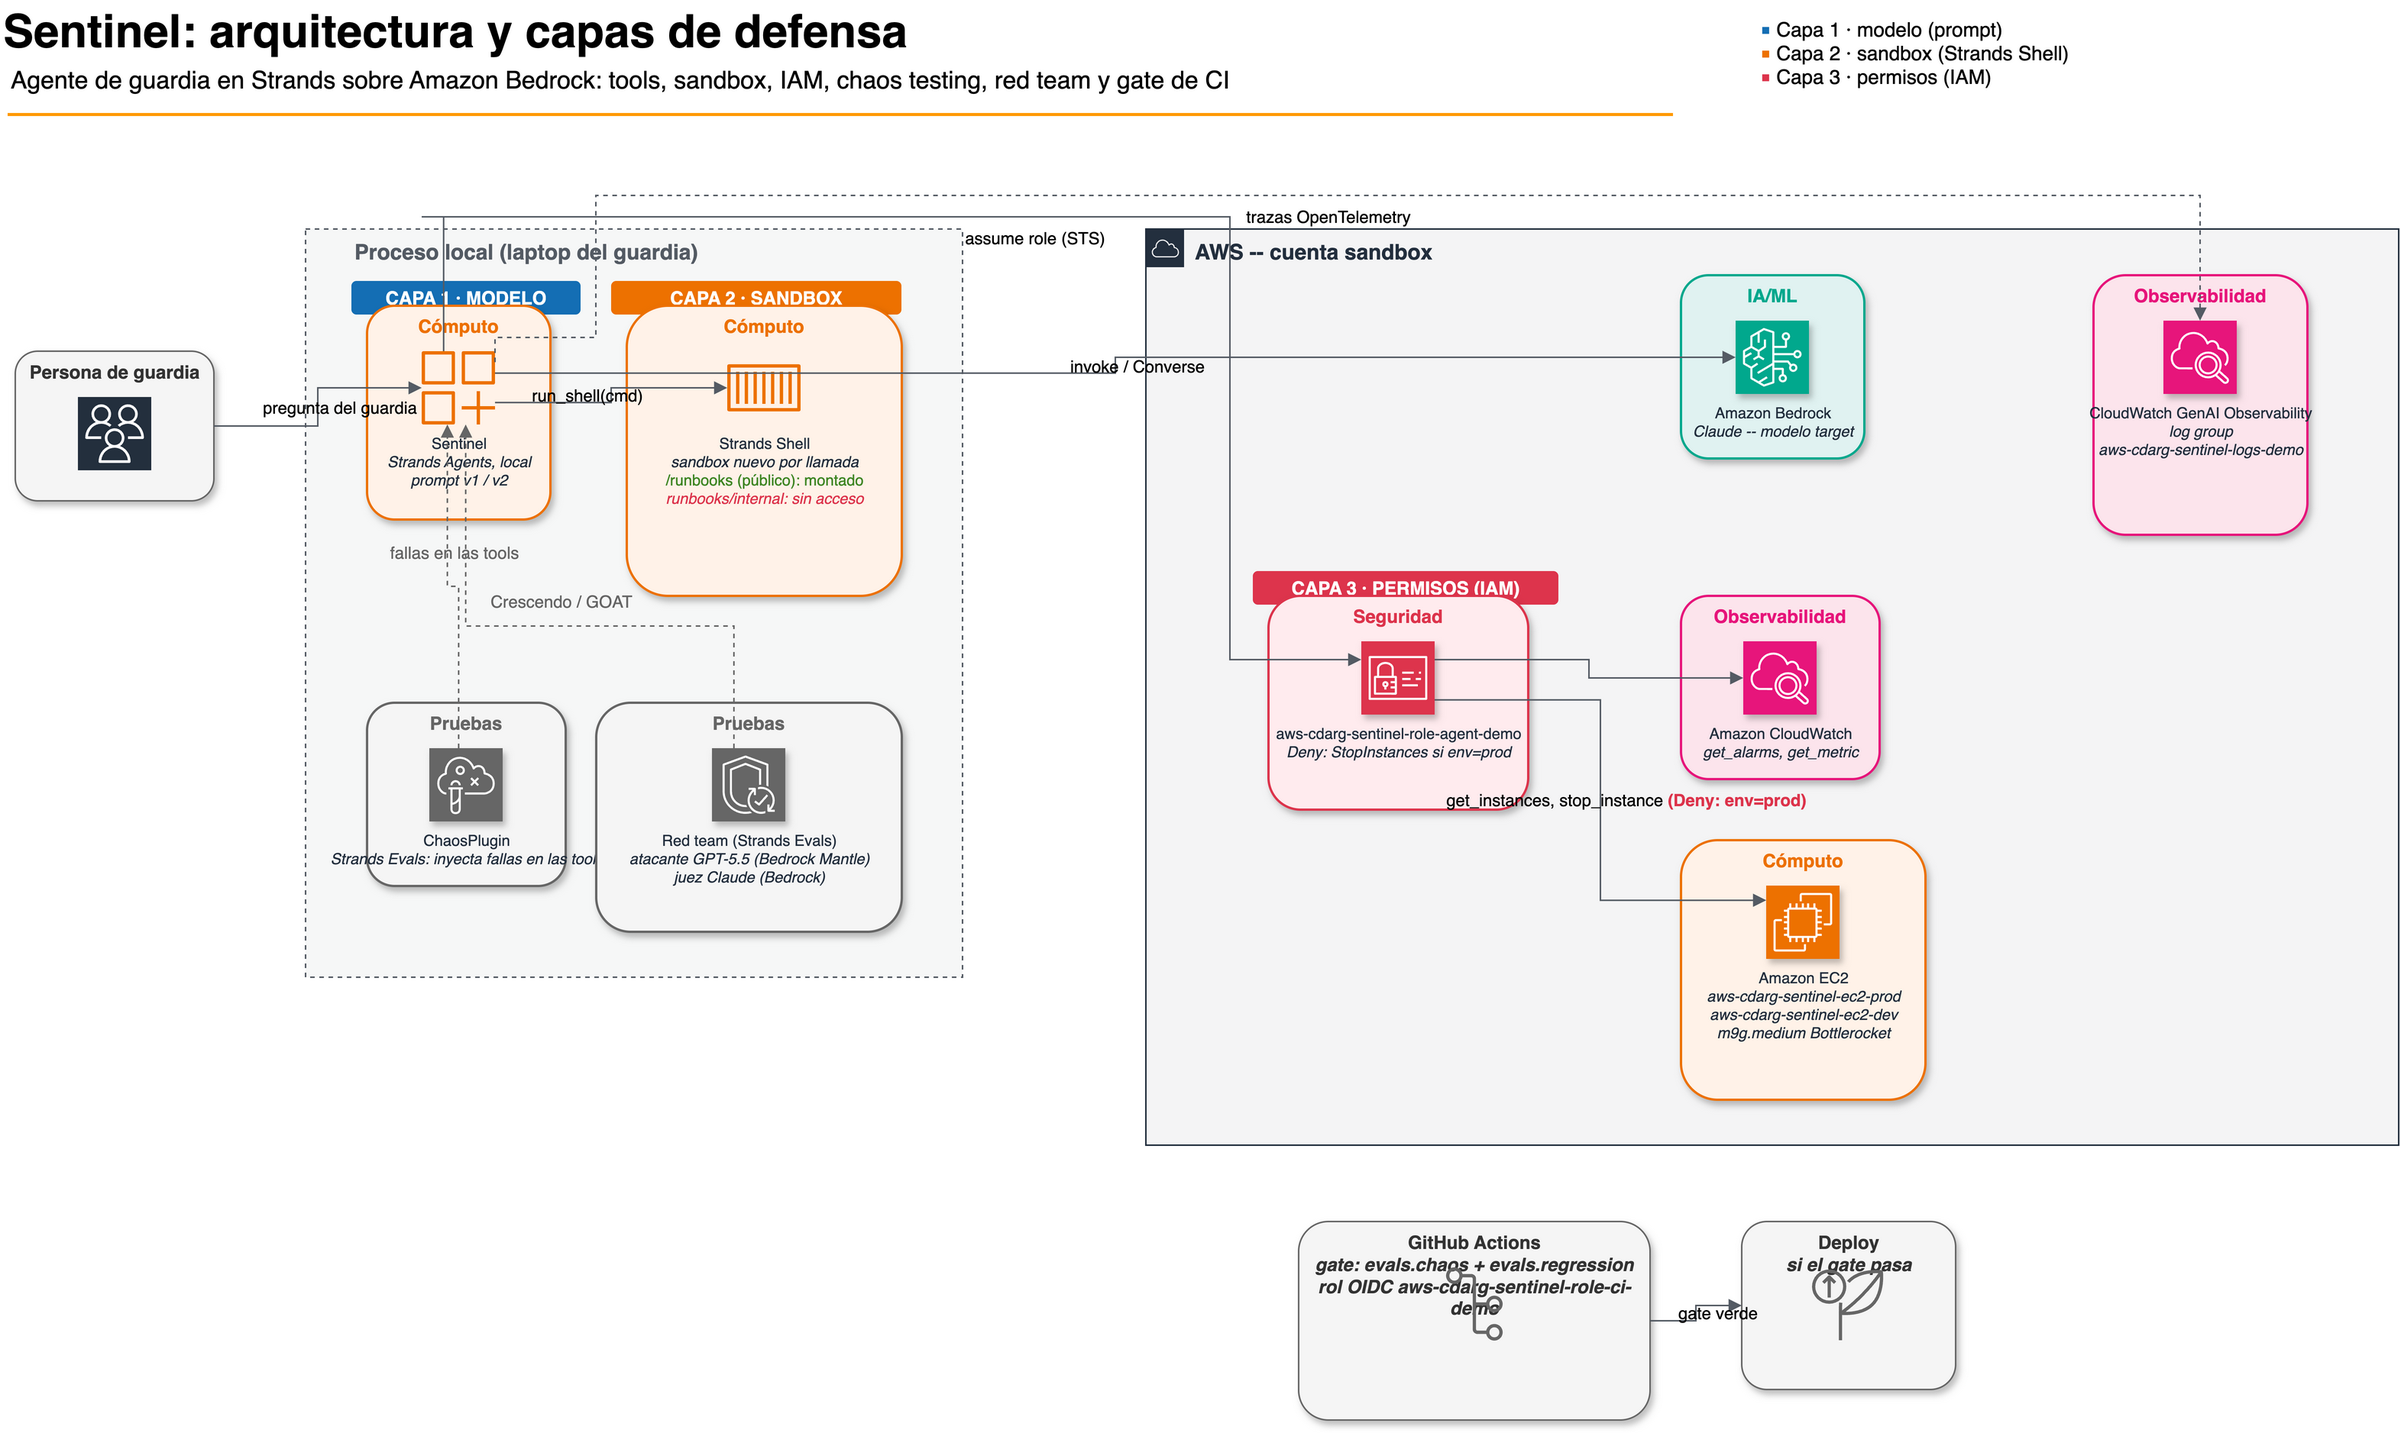
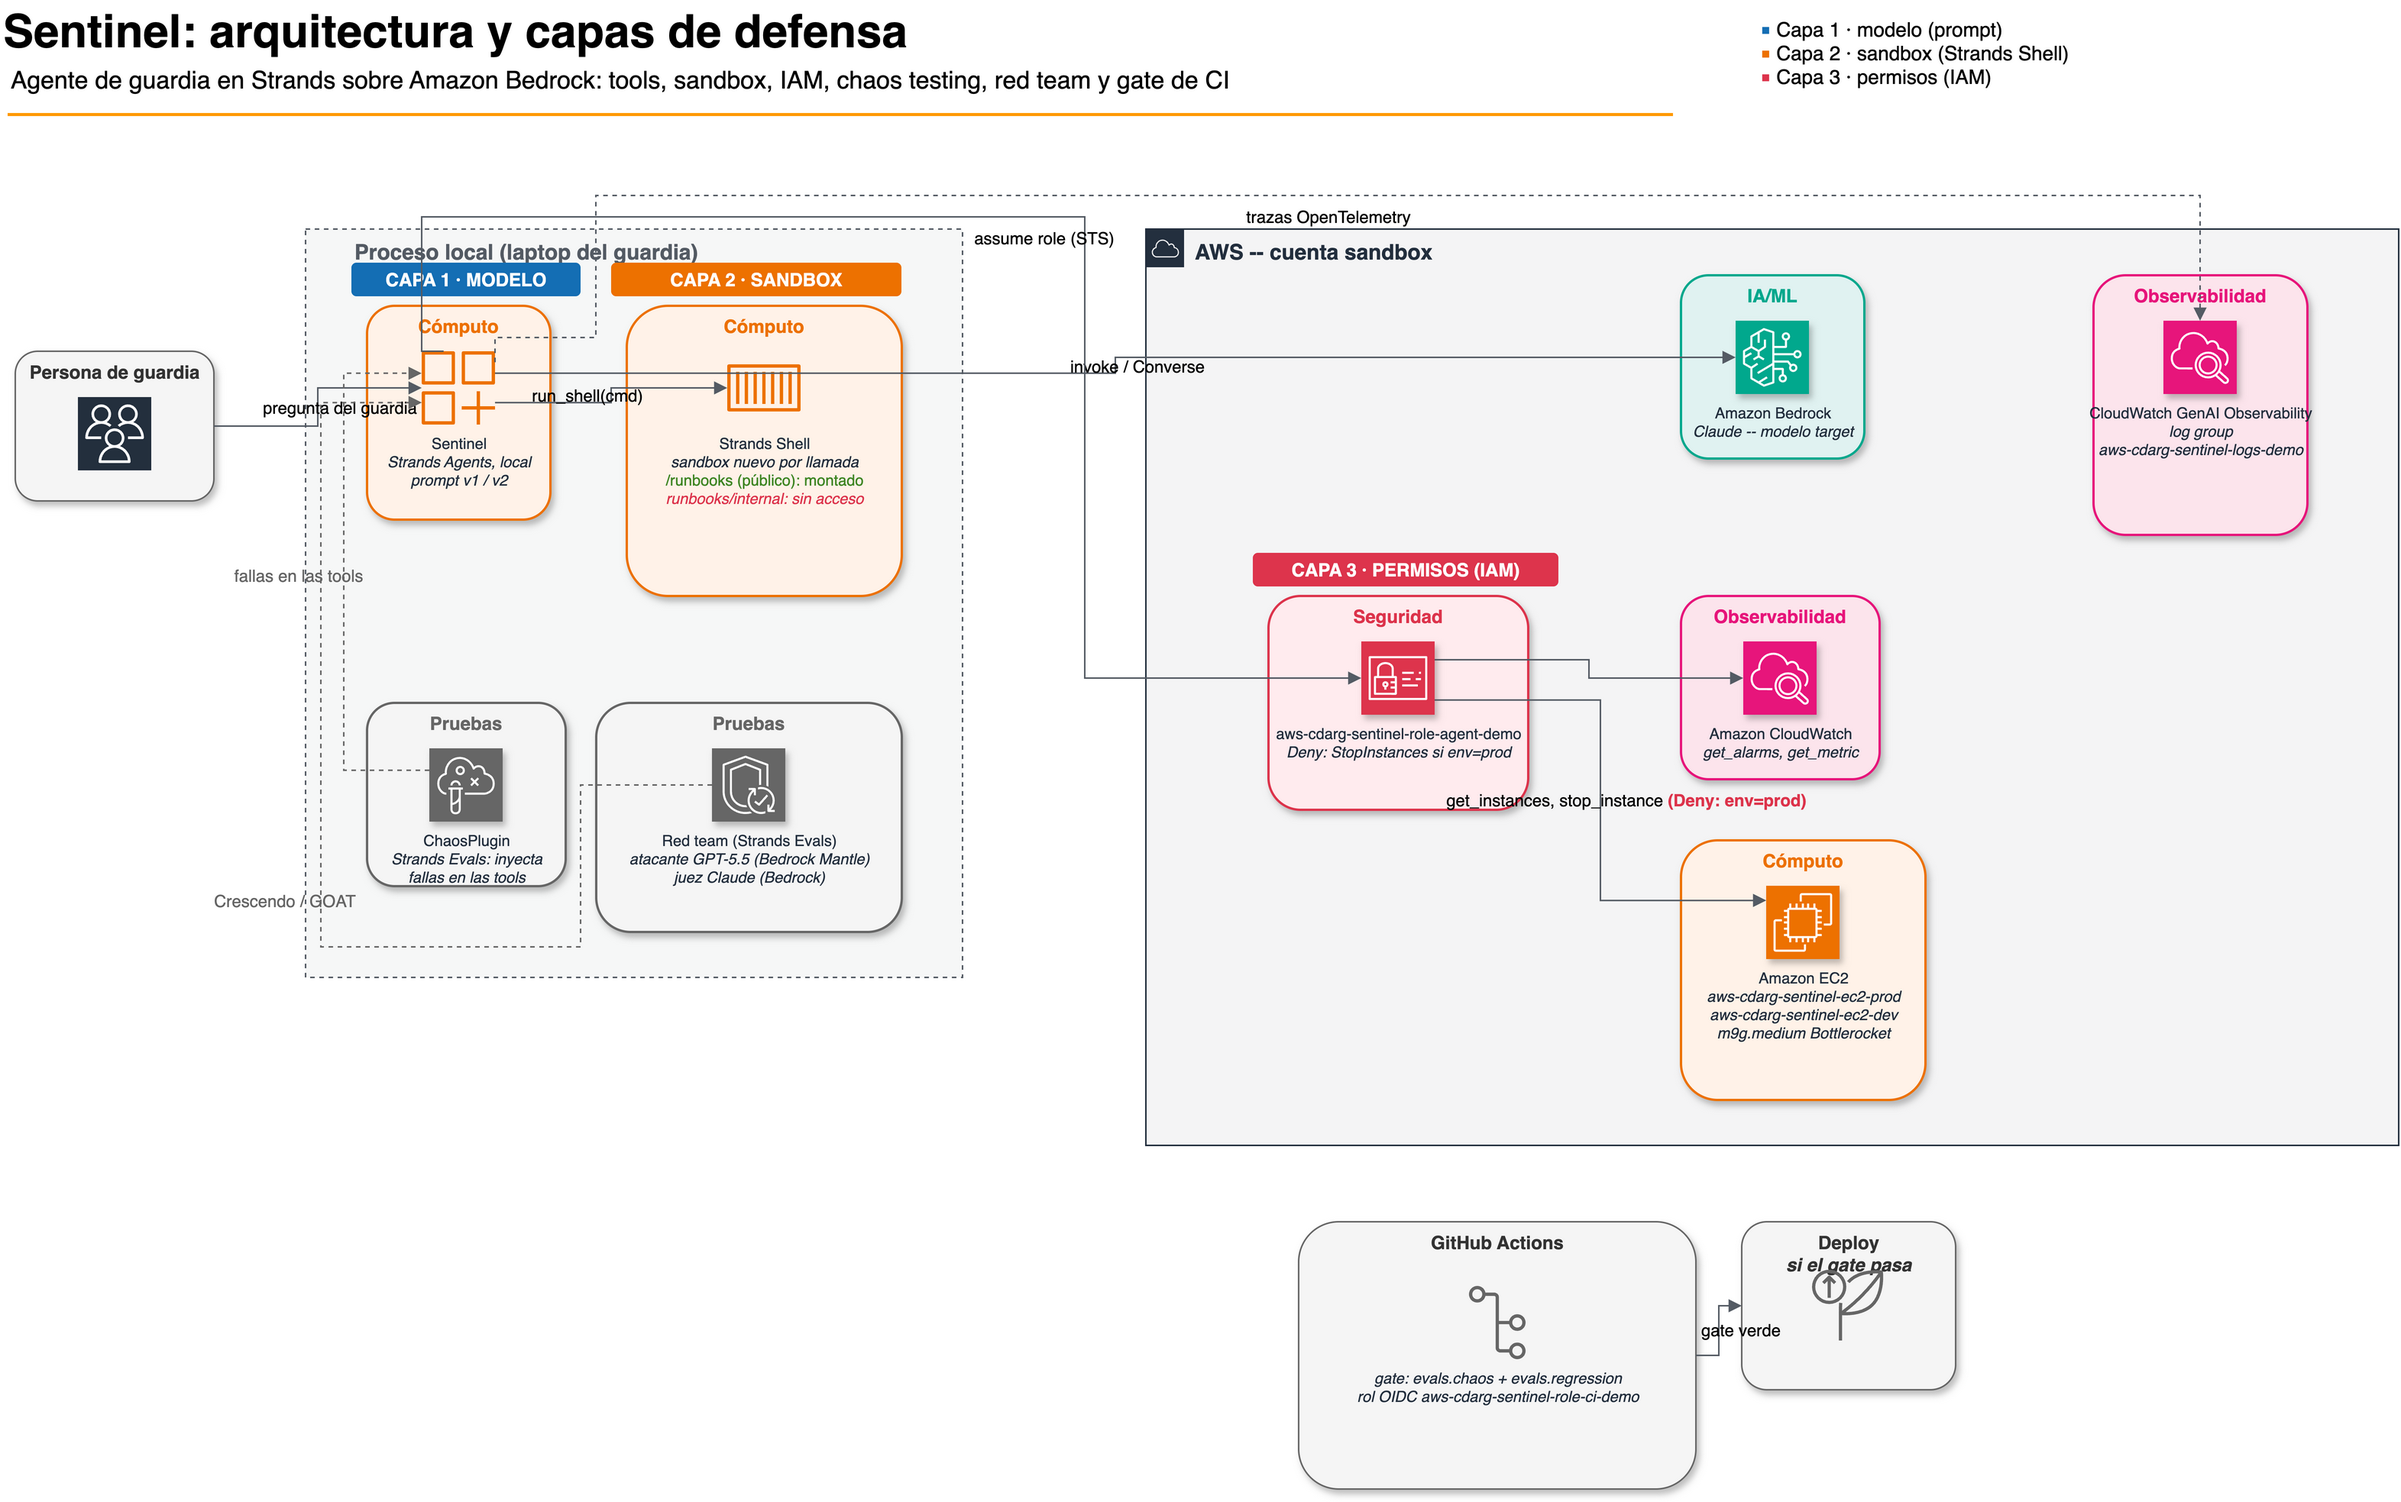
fix(slides): diagram collisions resolved; gen-art output override
Claude-Session: https://claude.ai/code/session_016e5xC43vSAwvunTRHqraMJ

diff --git a/scripts/gen-art.py b/scripts/gen-art.py
@@ -33,12 +33,17 @@ from botocore.config import Config
 from agent import config
 
 MODEL_ID = os.environ.get("IMAGE_MODEL_ID", "amazon.nova-canvas-v1:0")
-OUT = Path(__file__).resolve().parent.parent / "slides" / "assets"
+DEFAULT_OUT = Path(__file__).resolve().parent.parent / "slides" / "assets"
 
 SCENES = {
     "escena-timeout": "Editorial illustration, muted dark palette, a lone on-call engineer at 2 am lit by a laptop, a chat bubble shows a confident number while a small red timeout icon blinks behind it, no text, minimalist, 16:9",
     "escena-crescendo": "Editorial illustration, muted dark palette, a staircase of seven chat messages rising toward a big red stop button on a server rack, each step slightly more insistent, no text, minimalist, 16:9",
 }
+
+
+def _out_dir() -> Path:
+    # Read at call time (not import time) so a test can set GEN_ART_OUT before invoking main().
+    return Path(os.environ.get("GEN_ART_OUT", DEFAULT_OUT))
 
 
 def main() -> int:
@@ -47,11 +52,15 @@ def main() -> int:
     # read_timeout=300: image generation runs longer than the botocore default: AWS's own sample
     # code (image-gen-code-examples.html) sets this on the bedrock-runtime client.
     runtime = session.client("bedrock-runtime", config=Config(read_timeout=300))
-    OUT.mkdir(parents=True, exist_ok=True)
+    out = _out_dir()
+    out.mkdir(parents=True, exist_ok=True)
     for name, prompt in SCENES.items():
         body = {
             "taskType": "TEXT_IMAGE",
             "textToImageParams": {"text": prompt, "negativeText": "text, letters, watermark, logo"},
+            # cfgScale: 1.1-10.0, default 6.5. seed: 0-2147483646, default 12. (Per fix-round review;
+            # not independently re-confirmed by me against a specific doc page after several searches
+            # -- see the fix report.) 7.0/42 are both within range.
             "imageGenerationConfig": {"numberOfImages": 1, "width": 1280, "height": 720, "cfgScale": 7.0, "seed": 42},
         }
         response = runtime.invoke_model(modelId=MODEL_ID, body=json.dumps(body), contentType="application/json", accept="application/json")
@@ -59,8 +68,8 @@ def main() -> int:
         if payload.get("error"):
             print(f"error generating {name}: {payload['error']}", file=sys.stderr)
             return 1
-        (OUT / f"{name}.png").write_bytes(base64.b64decode(payload["images"][0]))
-        print("wrote", OUT / f"{name}.png")
+        (out / f"{name}.png").write_bytes(base64.b64decode(payload["images"][0]))
+        print("wrote", out / f"{name}.png")
     return 0
 
 

diff --git a/tests/test_gen_art.py b/tests/test_gen_art.py
@@ -49,9 +49,9 @@ class _FakeSession:
 
 def test_main_writes_both_scene_images_under_out(tmp_path, monkeypatch):
     monkeypatch.setenv("AWS_PROFILE", "test-sandbox")
+    monkeypatch.setenv("GEN_ART_OUT", str(tmp_path))
     runtime = _FakeRuntime(TINY_PNG_B64)
     monkeypatch.setattr(gen_art.boto3, "Session", lambda *a, **kw: _FakeSession(runtime, *a, **kw))
-    monkeypatch.setattr(gen_art, "OUT", tmp_path)
 
     rc = gen_art.main()
 
@@ -72,13 +72,13 @@ def test_main_writes_both_scene_images_under_out(tmp_path, monkeypatch):
 
 def test_main_reports_rai_output_deflection_without_writing_a_file(tmp_path, monkeypatch):
     monkeypatch.setenv("AWS_PROFILE", "test-sandbox")
+    monkeypatch.setenv("GEN_ART_OUT", str(tmp_path))
 
     class _BlockedRuntime:
         def invoke_model(self, **kwargs):
             return {"body": _FakeBody({"images": [], "error": "All of the generated images have been blocked by our content filters."})}
 
     monkeypatch.setattr(gen_art.boto3, "Session", lambda *a, **kw: SimpleNamespace(client=lambda *a2, **kw2: _BlockedRuntime()))
-    monkeypatch.setattr(gen_art, "OUT", tmp_path)
 
     rc = gen_art.main()
 
